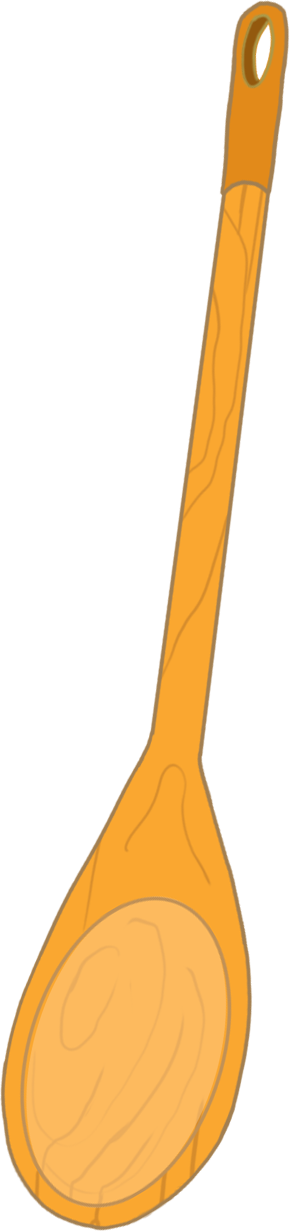
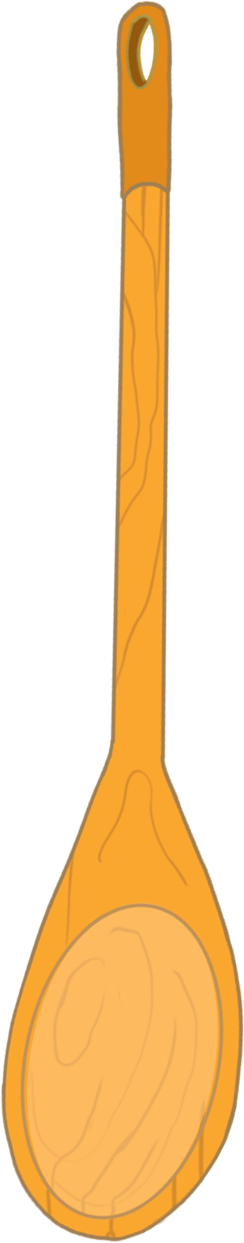
Moved images. Added shadows.

Changed region(s): [[0.0, 0.0, 1.0, 1.0], [0.3443, 0.7409, 0.373, 0.7717]]

diff --git a/source/views/Mount.view.less b/source/views/Mount.view.less
@@ -123,6 +123,35 @@
             &[isPaused] {
                 pointer-events: none !important;
             }
+
+            &[hasBlobShadow] {
+                .BlobShadow {
+                    width: 4em;
+                    height: 2em;
+                    z-index: 0;
+                    position: absolute;
+                    bottom: -0.5em;
+                    left: 0em;
+                    right: 0em;
+                    margin: auto;
+
+                    border-radius: 100%;
+                    background-color: rgba(0, 0, 0, 0.5);
+                }
+            }
+
+            .Image {
+                top: 0em;
+                left: 0em;
+                right: 0em;
+                bottom: 0em;
+                z-index: 5;
+                position: absolute;
+
+                background-size: contain;
+                background-repeat: no-repeat;
+                background-position: center bottom;
+            }
         }
 
         .Selected.Item {
@@ -135,10 +164,9 @@
             width: 12em;
             height: 9em;
 
-            background-size: contain;
-            background-repeat: no-repeat;
-            background-position: center bottom;
-            background-image: url("../images/cuttingboard.png");
+            .Image {
+                background-image: url("../images/cuttingboard.png");
+            }
 
             z-index: 10;
             left: 13.47em; top: 13.5em;
@@ -150,13 +178,10 @@
             margin-top: 10em / -2;
             margin-left: 10em / -2;
 
-            background-size: contain;
-            background-position: center bottom;
-            background-repeat: no-repeat;
-            background-image: url("../images/tasa.png");
+            .Image {background-image: url("../images/tasa.png");}
 
             z-index: 16;
-            left: 35.33em; top: 21.03em;
+            left: 40.80em; top: 16.77em;
 
             &[position=Stove] {
                 left: 32.5em; top: 11em;
@@ -169,10 +194,7 @@
             margin-left: 10em / -2;
             margin-top: 15em / -2;
 
-            background-size: contain;
-            background-position: center bottom;
-            background-repeat: no-repeat;
-            background-image: url("../images/stove.png");
+            .Image {background-image: url("../images/stove.png");}
 
             z-index: 5;
 
@@ -182,16 +204,13 @@
         #Onion {
             .size(7, 4);
 
-            background-size: contain;
-            background-position: center bottom;
-            background-repeat: no-repeat;
-            background-image: url("../images/onion0.png");
+            .Image {background-image: url("../images/onion0.png");}
 
             &[cuts="1"] {
-                background-image: url("../images/onion1.png");
+                .Image {background-image: url("../images/onion1.png");}
             }
             &[cuts="2"] {
-                background-image: url("../images/onion2.png");
+                .Image {background-image: url("../images/onion2.png");}
             }
 
             &:hover:after {
@@ -211,17 +230,14 @@
         #GreenPepper {
             .size(7, 4);
 
-            background-size: contain;
-            background-position: center bottom;
-            background-repeat: no-repeat;
-            background-image: url("../images/greenpepper0.png");
+            .Image {background-image: url("../images/greenpepper0.png");}
 
             &[cuts="1"] {
-                background-image: url("../images/greenpepper1.png");
+                .Image {background-image: url("../images/greenpepper1.png");}
             }
             &[cuts="2"] {
                 .size(7, 4);
-                background-image: url("../images/greenpepper2.png");
+                .Image {background-image: url("../images/greenpepper2.png");}
             }
 
             &:hover:after {
@@ -241,16 +257,13 @@
         #Tomato {
             .size(7, 4);
 
-            background-size: contain;
-            background-position: center bottom;
-            background-repeat: no-repeat;
-            background-image: url("../images/tomato0.png");
+            .Image {background-image: url("../images/tomato0.png");}
 
             &[cuts="1"] {
-                background-image: url("../images/tomato1.png");
+                .Image {background-image: url("../images/tomato1.png");}
             }
             &[cuts="2"] {
-                background-image: url("../images/tomato2.png");
+                .Image {background-image: url("../images/tomato2.png");}
             }
 
             &:hover:after {
@@ -270,10 +283,7 @@
         #Egg {
             .size(4, 4);
 
-            background-size: contain;
-            background-position: center bottom;
-            background-repeat: no-repeat;
-            background-image: url("../images/egg.png");
+            .Image {background-image: url("../images/egg.png");}
 
             &:hover:after {
                 content: "Egg";
@@ -294,10 +304,7 @@
         #Oil {
             .size(4, 4);
 
-            background-size: contain;
-            background-position: center bottom;
-            background-repeat: no-repeat;
-            background-image: url("../images/oil-bottle.png");
+            .Image {background-image: url("../images/oil-bottle.png");}
 
             z-index: 17;
             &[position=Default] {
@@ -310,17 +317,17 @@
             &[position=Pot] {
                 left: 31.40em; top: 13.40em;
                 .size(8, 4);
-                background-image: url("../images/oil-pool.png");
+                .Image {background-image: url("../images/oil-pool.png");}
             }
 
             &[status=StirFry] {
                 .size(6, 3);
-                background-image: url("../images/stirfry.png");
+                .Image {background-image: url("../images/stirfry.png");}
             }
 
             &[status=Shakshoka] {
                 .size(6, 3);
-                background-image: url("../images/shakshooka.png");
+                .Image {background-image: url("../images/shakshooka.png");}
             }
         }
 
@@ -396,10 +403,7 @@
         #Salt {
             .size(4, 4);
 
-            background-size: contain;
-            background-position: center bottom;
-            background-repeat: no-repeat;
-            background-image: url("../images/salt-shaker.png");
+            .Image {background-image: url("../images/salt-shaker.png");}
 
             &:hover:after {
                 content: "Salt";
@@ -439,30 +443,36 @@
         }
 
         #Spoon {
-            .size(2, 8);
+            .size(3, 9);
             margin-top: -2em;
             margin-left: -1.5em;
 
-            background-size: contain;
-            background-position: center bottom;
-            background-repeat: no-repeat;
-            background-image: url("../images/spoon.png");
+            .Image {background-image: url("../images/spoon.png");}
 
             z-index: 25;
-            left: 45.00em; top: 15.70em;
+            left: 31.40em; top: 21.5em;
+
+            transform: rotate(90deg);
+
+            &.Selected {
+                transform: rotate(0deg);
+            }
         }
 
         #Knife {
-            .size(2, 8);
-            margin-top: -6.5em;
+            .size(2.5, 10);
+            margin-top: -8.5em;
 
-            background-size: contain;
-            background-position: center bottom;
-            background-repeat: no-repeat;
-            background-image: url("../images/knife.png");
+            .Image {background-image: url("../images/knife.png");}
 
             z-index: 25;
-            left: 41.40em; top: 20.10em;
+            left: 19.33em; top: 27.57em;
+
+            transform: rotate(-90deg);
+
+            &.Selected {
+                transform: rotate(0deg);
+            }
         }
     }
 }

diff --git a/source/views/Mount.view.js b/source/views/Mount.view.js
@@ -109,6 +109,7 @@ class SelectedItem {
                 id={game.level.selectedItem}
                 cuts={game.level.items[game.level.selectedItem]?.cuts || 0}
                 style={this.style}>
+                <div class="Image"/>
             </div>
         )
     }
@@ -133,8 +134,17 @@ class Item {
                 isSelectable={this.isSelectable}
                 isPaused={this.isPaused}
                 onMouseDown={this.onMouseDown}
-                onMouseUp={this.onMouseUp}/>
+                onMouseUp={this.onMouseUp}
+                hasBlobShadow={this.hasBlobShadow}>
+                <div class="BlobShadow"/>
+                <div class="Image"/>
+            </div>
         )
+    }
+    get hasBlobShadow() {
+        return game.level.items[this.props.item]?.hasBlobShadow
+            && game.level.items[this.props.item].position == undefined
+            && game.selectedItem != this.props.item
     }
     get isSelectable() {
         if(game.level.items[this.props.item].isSelectable === false) {
@@ -191,12 +201,12 @@ const Levels = {
         "name": "Shakshoka",
         "items": {
             // Ingredients
-            "Onion": {"canBeCut": true, "maxcuts": 2, "canBePotted": false},
-            "GreenPepper": {"canBeCut": true, "maxcuts": 2, "canBePotted": false},
-            "Tomato": {"canBeCut": true, "maxcuts": 2, "canBePotted": false},
-            "Oil": {"canBePotted": true},
-            "Egg": {},
-            "Salt": {},
+            "Onion": {"canBeCut": true, "maxcuts": 2, "canBePotted": false, "hasBlobShadow": true},
+            "GreenPepper": {"canBeCut": true, "maxcuts": 2, "canBePotted": false, "hasBlobShadow": true},
+            "Tomato": {"canBeCut": true, "maxcuts": 2, "canBePotted": false, "hasBlobShadow": true},
+            "Oil": {"canBePotted": true, "hasBlobShadow": true},
+            "Egg": {"hasBlobShadow": true},
+            "Salt": {"hasBlobShadow": true},
             // Tools
             "Knife": {},
             "Spoon": {},
